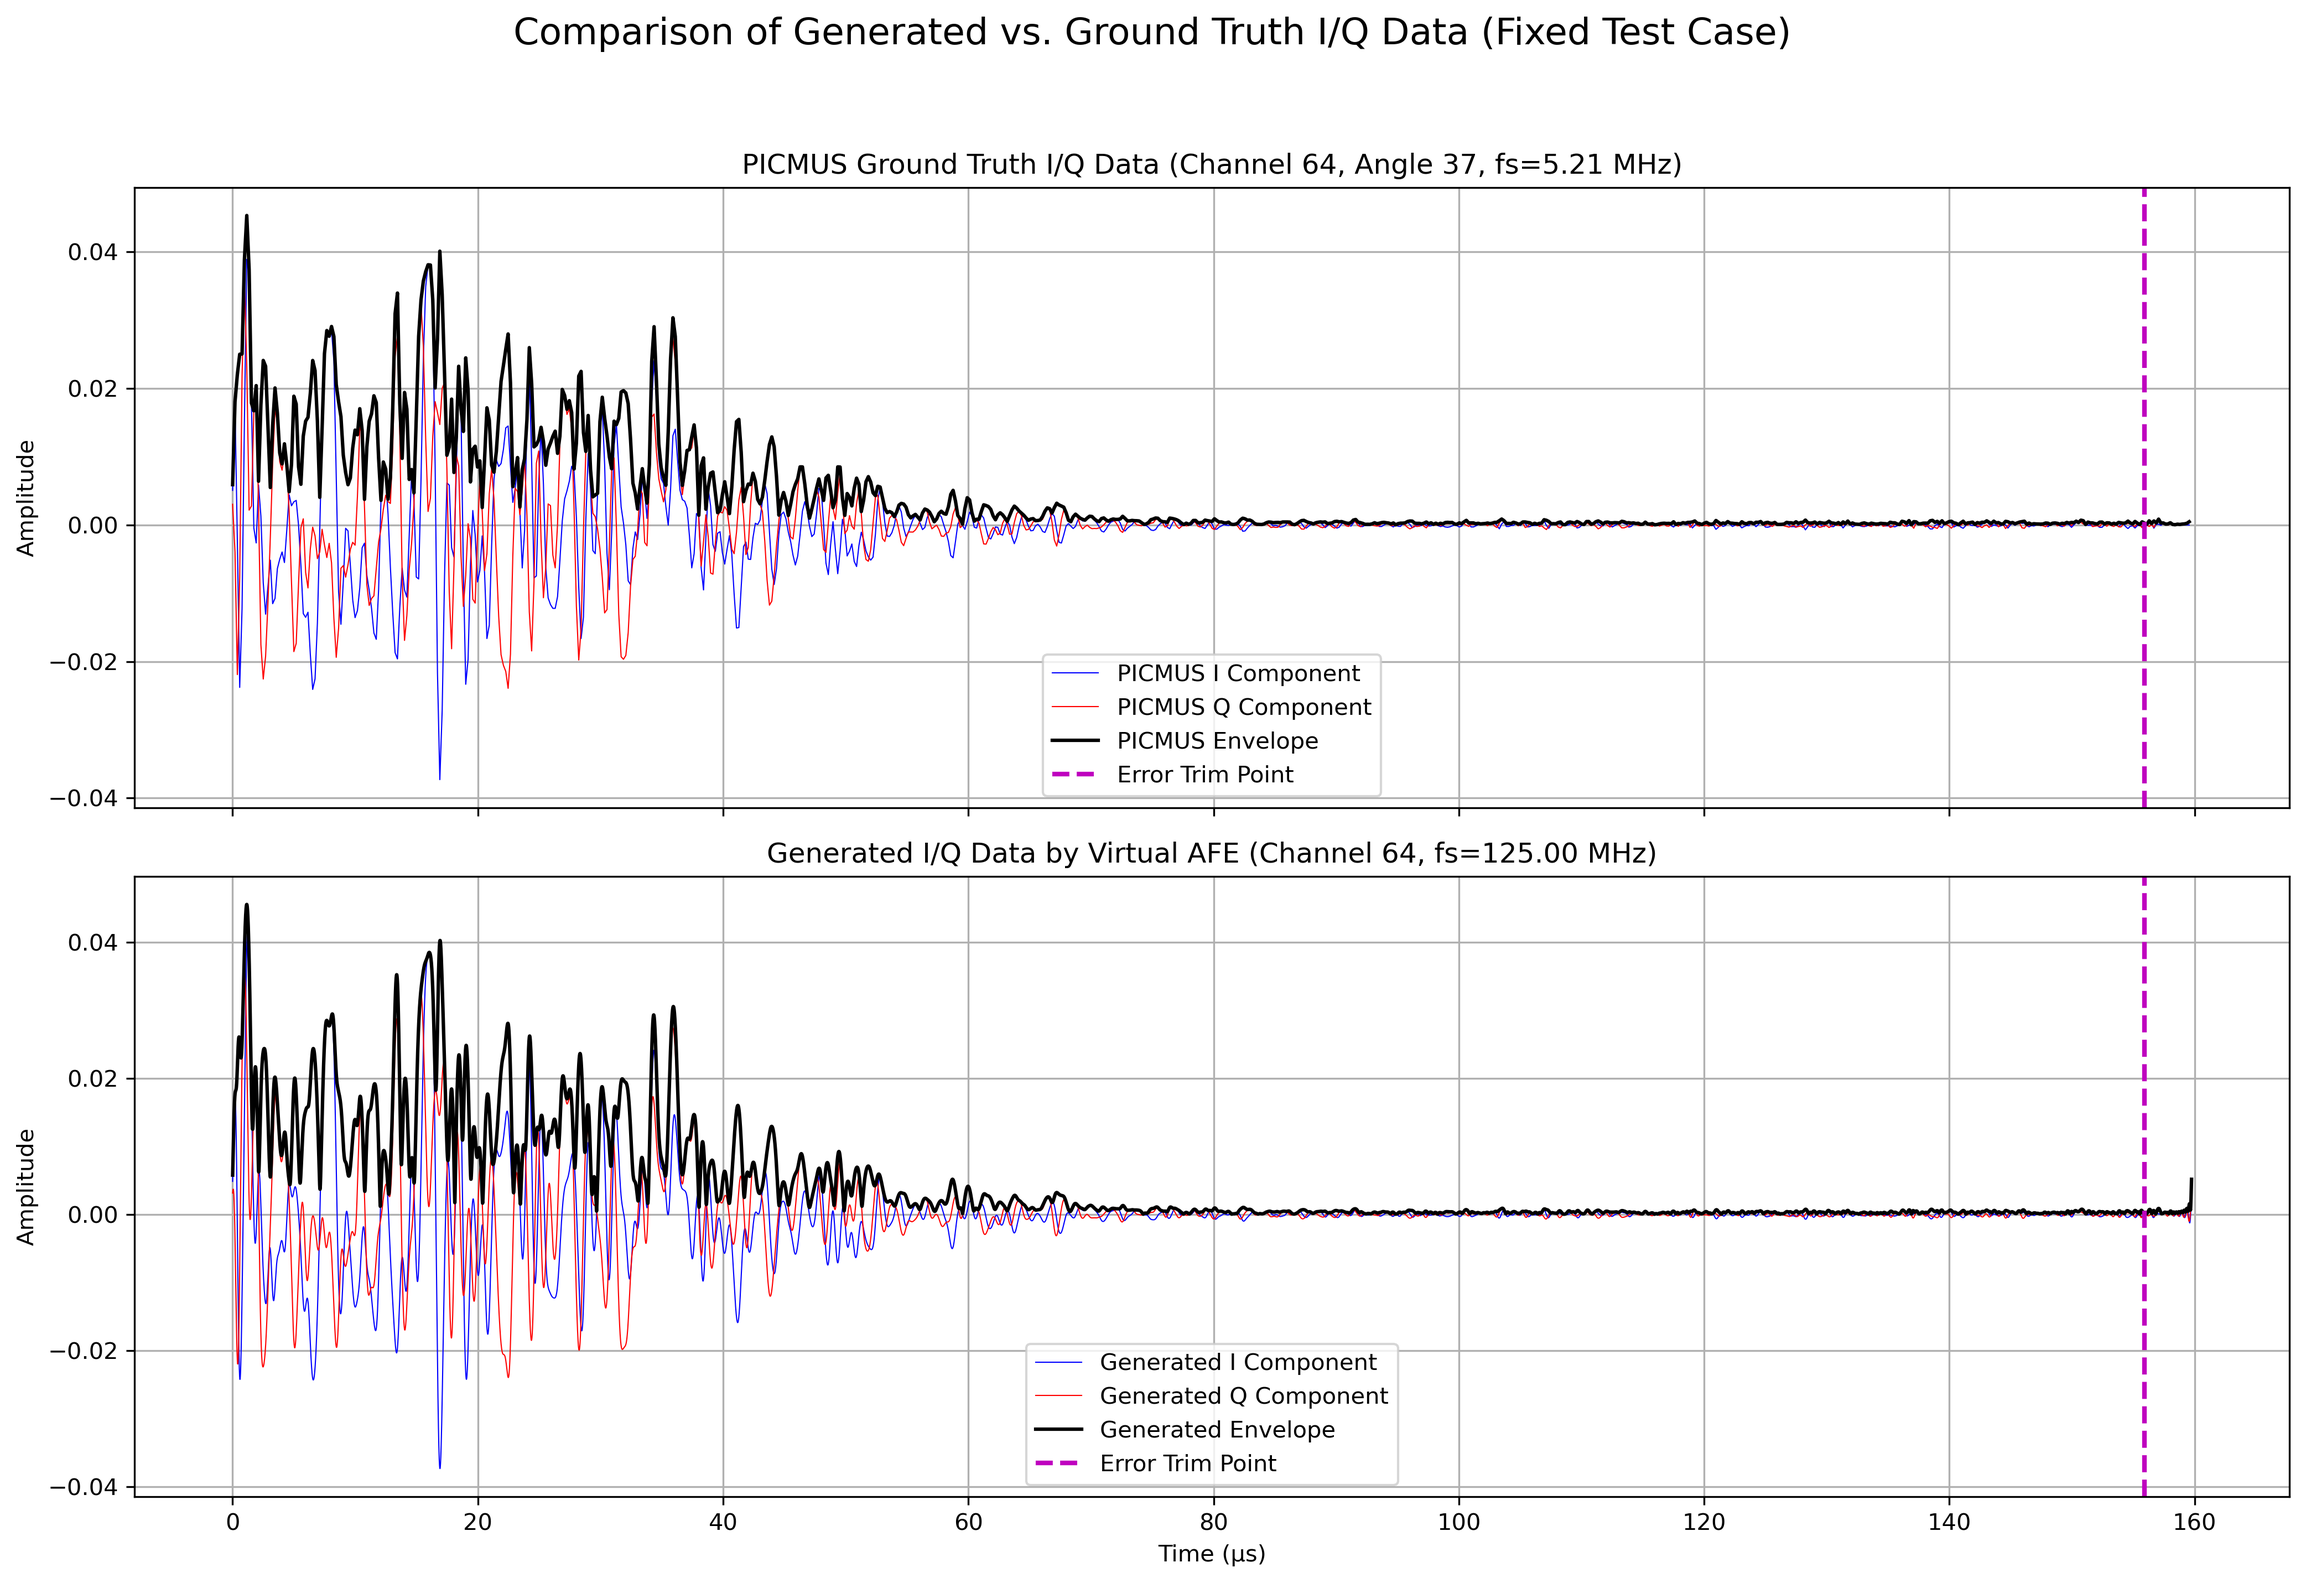
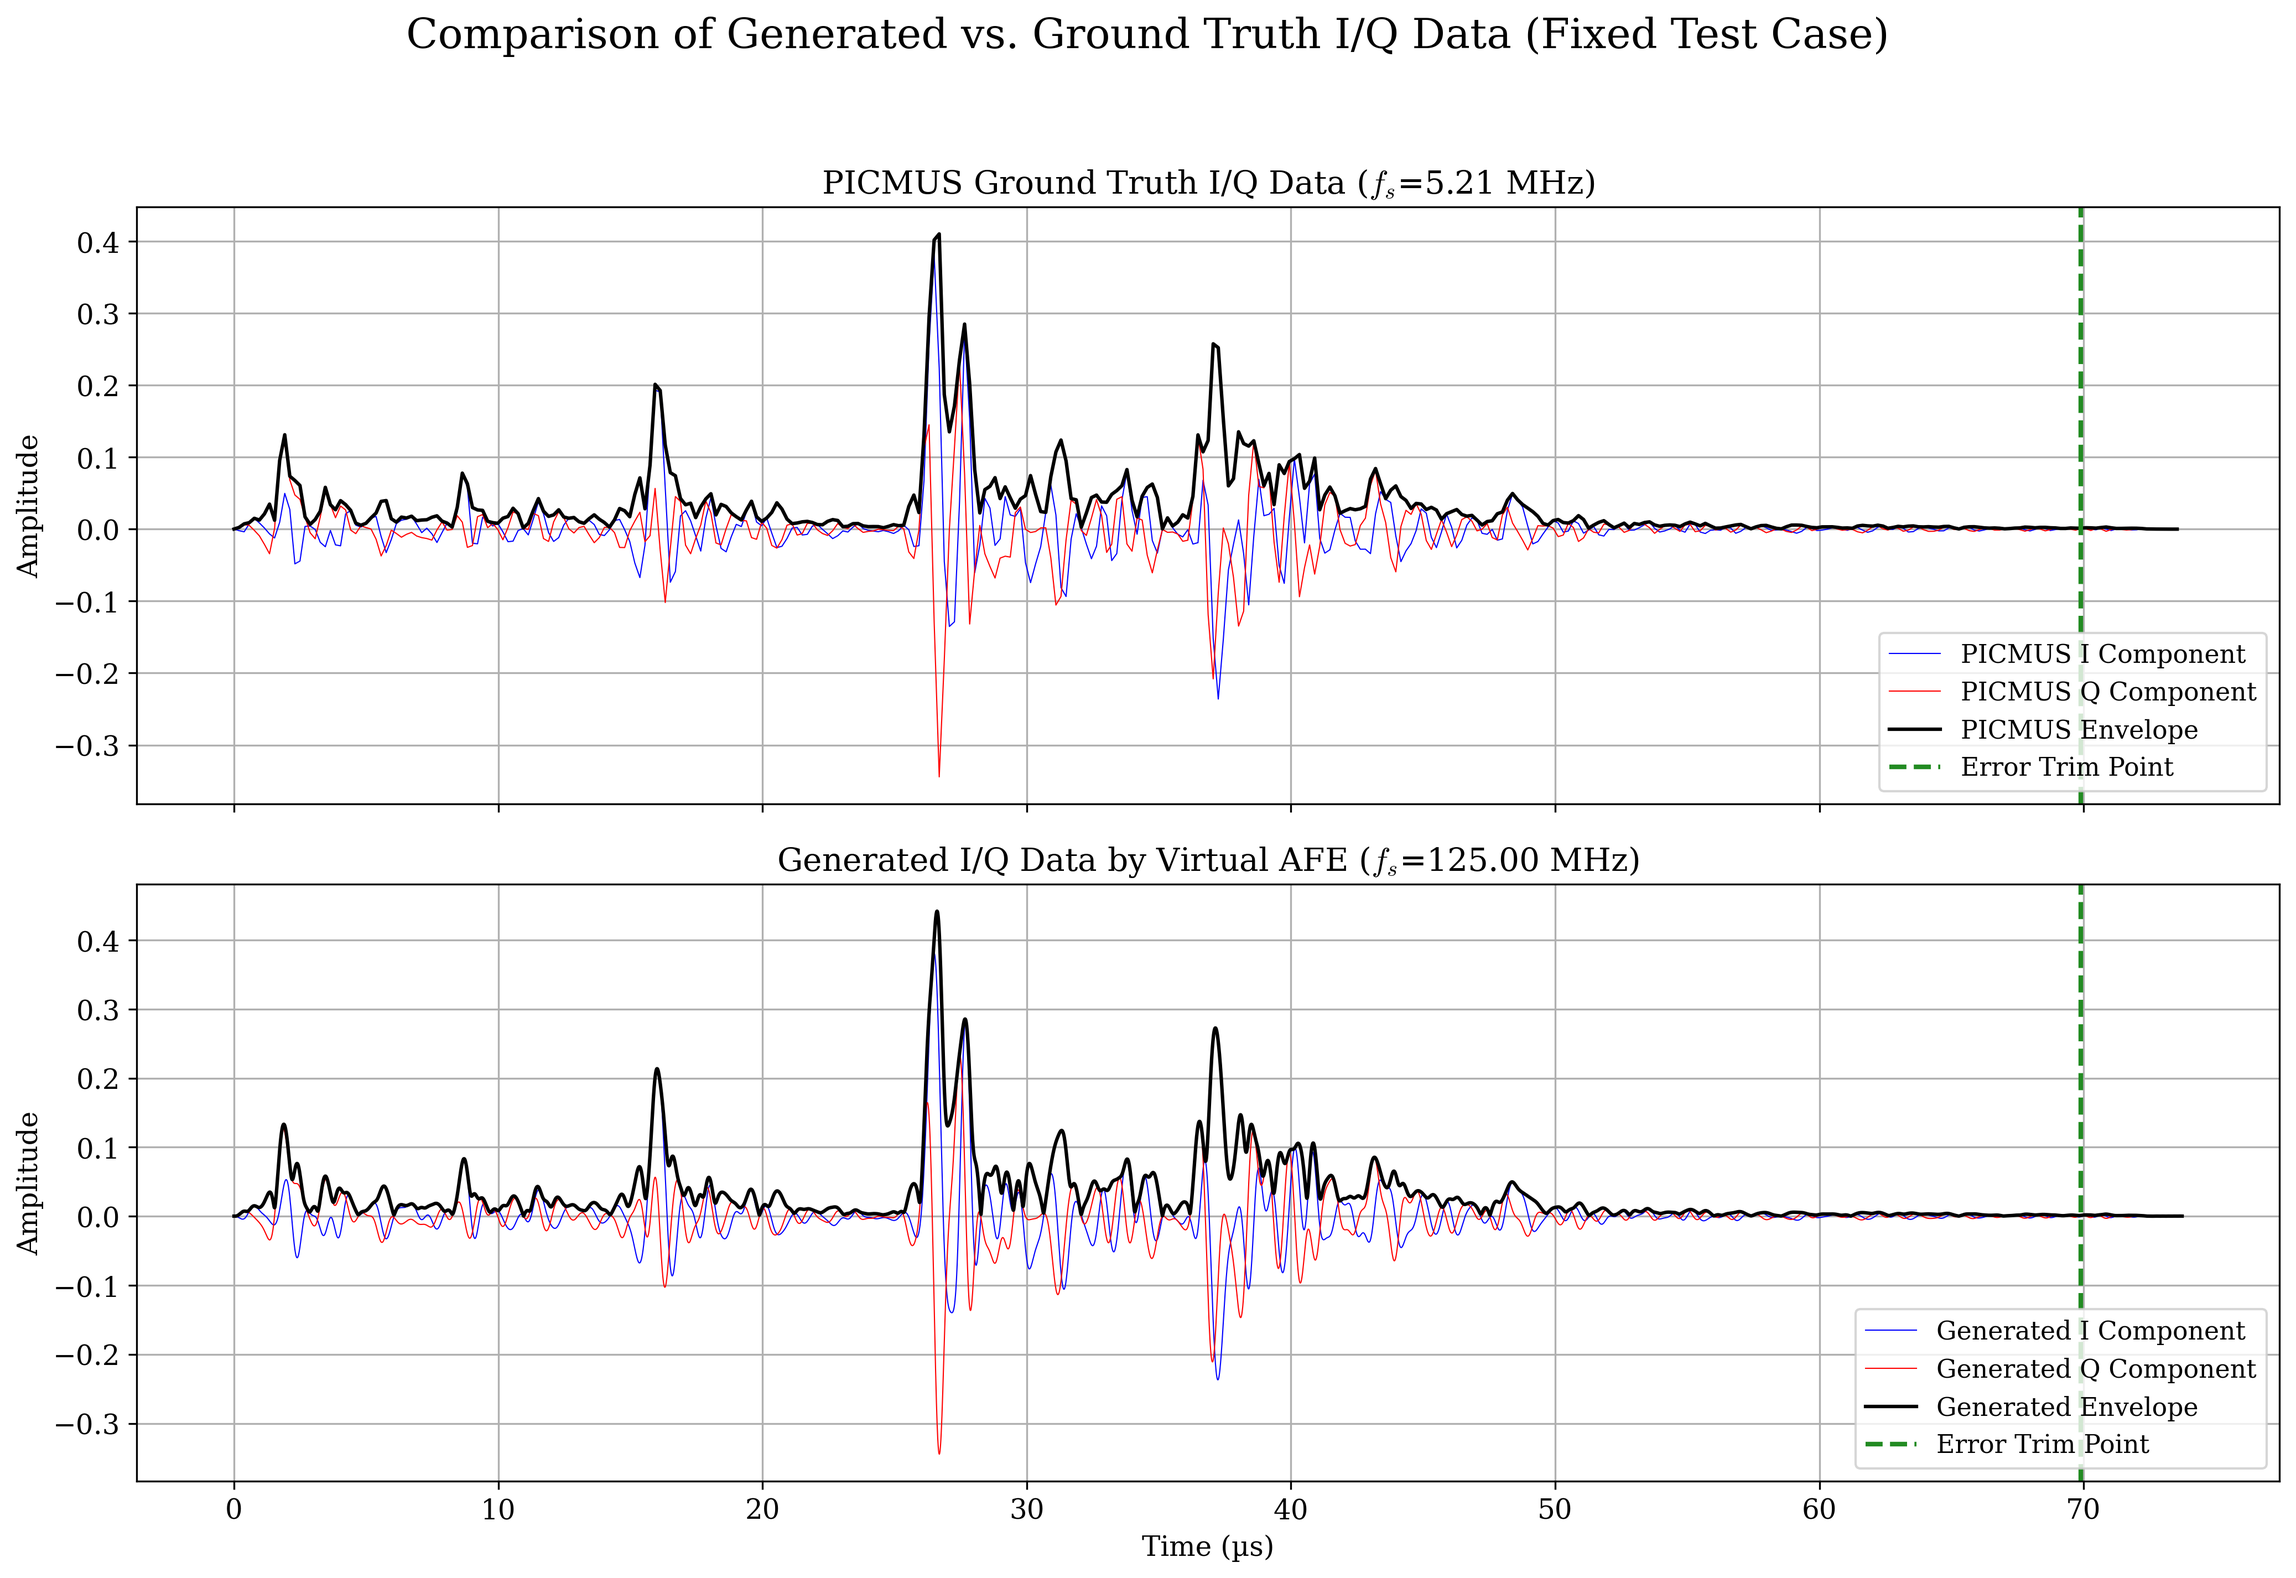
changed plotting layout and added in vivo dataset for validation

diff --git a/simulator/src/inspect_iq_data.py b/simulator/src/inspect_iq_data.py
@@ -18,9 +18,13 @@ if __name__ == '__main__':
         SIMULATOR_ROOT = Path.cwd().parent
     
     # change dataset as needed
-    rf_path = SIMULATOR_ROOT / "datasets/experiments/contrast_speckle/contrast_speckle_expe_dataset_rf.hdf5"
-    iq_path = SIMULATOR_ROOT / "datasets/experiments/contrast_speckle/contrast_speckle_expe_dataset_iq.hdf5"
-    scan_path = SIMULATOR_ROOT / "datasets/experiments/contrast_speckle/contrast_speckle_expe_scan.hdf5"
+    # rf_path = SIMULATOR_ROOT / "datasets/experiments/contrast_speckle/contrast_speckle_expe_dataset_rf.hdf5"
+    # iq_path = SIMULATOR_ROOT / "datasets/experiments/contrast_speckle/contrast_speckle_expe_dataset_iq.hdf5"
+    # scan_path = SIMULATOR_ROOT / "datasets/experiments/contrast_speckle/contrast_speckle_expe_scan.hdf5"
+
+    rf_path = SIMULATOR_ROOT / "datasets/in_vivo/carotid_long/carotid_long_expe_dataset_rf.hdf5"
+    iq_path = SIMULATOR_ROOT / "datasets/in_vivo/carotid_long/carotid_long_expe_dataset_iq.hdf5"
+    scan_path = SIMULATOR_ROOT / "datasets/in_vivo/carotid_long/carotid_long_expe_scan.hdf5"
     
     adc_rate = 125e6
     decimation_for_generation = 1 
@@ -41,7 +45,7 @@ if __name__ == '__main__':
     num_points_to_trim = 20
     
     channel_for_plot = 64
-    angle_for_plot = np.argmin(np.abs(angles_iq))
+    angle_for_plot = np.argmin(np.abs(angles_iq)) # = center angle = 37
     
     total_angles, total_channels, _ = picmus_iq_data.shape
     
@@ -130,13 +134,26 @@ if __name__ == '__main__':
     print(f"  - Average Max Error as % of Dynamic Range: {np.mean(all_norm_errors_imag):.2f}%")
     print(f"  - Average Mean Error as % of Dynamic Range: {np.mean(all_norm_avg_errors_imag):.2f}%")
     
-   # --- 6. plotting (with subplots for direct comparison) ---
+
+
+    # Configure Fonts to match LaTeX / Times New Roman style
+    plt.rcParams.update({
+        "font.family": "serif",
+        "font.serif": ["Times New Roman", "Times", "DejaVu Serif", "serif"],
+        "mathtext.fontset": "cm",  # Computer Modern for math text
+        "font.size": 12,
+        "axes.labelsize": 12,
+        "axes.titlesize": 14,
+        "legend.fontsize": 11
+    })
+
+    # --- 6. plotting (with subplots for direct comparison) ---
     my_envelope_plot = np.abs(my_iq_aline_plot)
     gt_envelope_plot = np.abs(gt_iq_aline_plot)
 
     # create a single figure with two subplots stacked vertically
     fig, (ax1, ax2) = plt.subplots(2, 1, figsize=(14, 10), sharex=True)
-    
+
     # --- top subplot (ax1): ground truth data ---
     ax1.plot(gt_time_axis_plot * 1e6, gt_iq_aline_plot.real, 'b-', linewidth=0.5, label='PICMUS I Component')
     ax1.plot(gt_time_axis_plot * 1e6, gt_iq_aline_plot.imag, 'r-', linewidth=0.5, label='PICMUS Q Component')
@@ -144,11 +161,19 @@ if __name__ == '__main__':
 
     # get the time value where the trimming starts and add the vertical line
     trim_time_us = (gt_time_axis_plot[-num_points_to_trim]) * 1e6
-    ax1.axvline(x=trim_time_us, color='m', linestyle='--', linewidth=2, label=f'Error Trim Point')
-    
-    ax1.set_title(f'PICMUS Ground Truth I/Q Data (Channel {channel_for_plot}, Angle {angle_for_plot}, fs={fs_picmus_iq/1e6:.2f} MHz)')
+    ax1.axvline(
+        x=trim_time_us,
+        color='forestgreen',
+        linestyle='--',
+        linewidth=2,
+        label='Error Trim Point'
+    )
+
+    ax1.set_title(
+        f'PICMUS Ground Truth I/Q Data ($f_s$={fs_picmus_iq/1e6:.2f} MHz)'
+    )
     ax1.set_ylabel('Amplitude')
-    ax1.legend()
+    ax1.legend(loc='lower right')
     ax1.grid(True)
 
     # --- bottom subplot (ax2): generated data by virtual AFE ---
@@ -158,16 +183,28 @@ if __name__ == '__main__':
 
     # get the time value where the trimming starts and add the vertical line
     trim_time_us = (gt_time_axis_plot[-num_points_to_trim]) * 1e6
-    ax2.axvline(x=trim_time_us, color='m', linestyle='--', linewidth=2, label=f'Error Trim Point')
-    
-    ax2.set_title(f'Generated I/Q Data by Virtual AFE (Channel {channel_for_plot}, fs={adc_rate/1e6:.2f} MHz)')
+    ax2.axvline(
+        x=trim_time_us,
+        color='forestgreen',
+        linestyle='--',
+        linewidth=2,
+        label='Error Trim Point'
+    )
+
+    ax2.set_title(
+        f'Generated I/Q Data by Virtual AFE ($f_s$={adc_rate/1e6:.2f} MHz)'
+    )
     ax2.set_xlabel('Time (µs)')
     ax2.set_ylabel('Amplitude')
-    ax2.legend()
+    ax2.legend(loc='lower right')
     ax2.grid(True)
 
     # --- overall figure title and saving ---
-    fig.suptitle('Comparison of Generated vs. Ground Truth I/Q Data (Fixed Test Case)', fontsize=16)
+    fig.suptitle(
+        'Comparison of Generated vs. Ground Truth I/Q Data (Fixed Test Case)',
+        fontsize=18
+    )
+
     # adjust layout to prevent titles from overlapping
     fig.tight_layout(rect=[0, 0.03, 1, 0.95])
 
@@ -179,8 +216,8 @@ if __name__ == '__main__':
 
     # save the figure to the specified path
     plt.savefig(output_path, dpi=300, bbox_inches='tight')
-    
+
     print(f"\nSUCCESS: Comparison plot saved to {output_path}")
-    
+
     # close plot
     plt.close()
